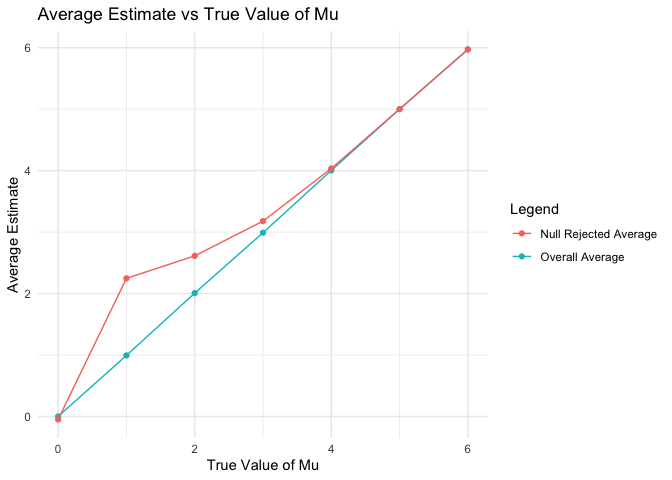
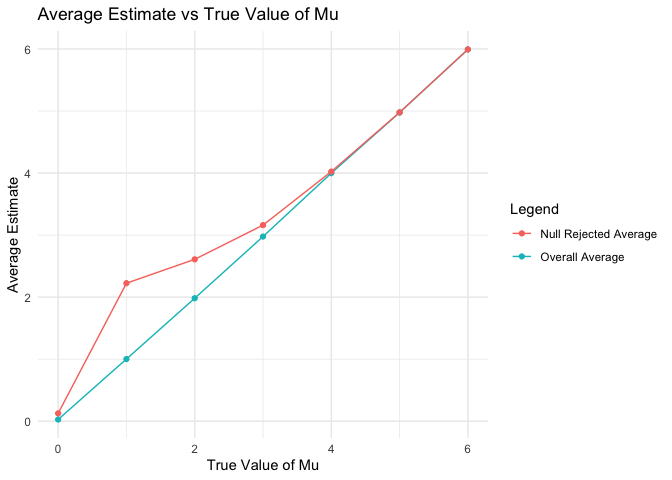
comments

diff --git a/p8105_hw5_xw2961.md b/p8105_hw5_xw2961.md
@@ -76,7 +76,17 @@ ggplot(power_results, aes(x = mu, y = power)) +
   theme_minimal()
 ```
 
-![](p8105_hw5_xw2961_files/figure-gfm/unnamed-chunk-2-1.png)<!-- -->
+![](p8105_hw5_xw2961_files/figure-gfm/unnamed-chunk-2-1.png)<!-- --> The
+plot shows a positive association between effect size ($\mu$) and
+statistical power, where power increases as the effect size grows. For
+small effect sizes, the power is low, indicating a lower likelihood of
+detecting a true effect. As the effect size increases, the power rises
+rapidly, reflecting a higher probability of correctly rejecting the null
+hypothesis. Beyond a certain threshold (e.g., $\mu \geq 5$), the power
+plateaus near 1, indicating near certainty in detecting a true effect.
+This demonstrates that larger effect sizes make it easier to distinguish
+between the null and alternative hypotheses, emphasizing the importance
+of sufficient effect sizes for well-powered studies.
 
 ``` r
 # Calculate averages
@@ -102,8 +112,19 @@ ggplot(average_results, aes(x = mu)) +
   theme_minimal()
 ```
 
-![](p8105_hw5_xw2961_files/figure-gfm/unnamed-chunk-3-1.png)<!-- --> \#
-Problem 3
+![](p8105_hw5_xw2961_files/figure-gfm/unnamed-chunk-3-1.png)<!-- --> The
+sample average of $\hat{\mu}$ from tests where the null hypothesis is
+rejected does not match the true value of ($\mu$), especially when
+($\mu$) is close to the null hypothesis value (0). This occurs because
+tests that reject the null are biased toward samples with larger
+deviations from 0, inflating the mean estimate. This selection bias is
+most evident when ($\mu$) is small since only extreme values of mu_hat
+produce significant results. As ($\mu$) increases, the test’s power
+improves, reducing the impact of selection bias, and the rejected-sample
+estimates converge more closely to the true ($\mu$). This pattern
+illustrates how bias diminishes with increasing effect size.
+
+# Problem 3
 
 ``` r
 # Loading the dataset
@@ -120,6 +141,17 @@ homicides_data <- read_csv(data_url)
     ## 
     ## ℹ Use `spec()` to retrieve the full column specification for this data.
     ## ℹ Specify the column types or set `show_col_types = FALSE` to quiet this message.
+
+The raw data originates from The Washington Post’s homicide dataset and
+provides comprehensive information on individual homicide cases from 50
+major U.S. cities. It encompasses a total of 52,179 observations
+distributed across 12 variables. Each row corresponds to a unique case
+and includes detailed attributes such as the date of the incident,
+victim demographics (e.g., name, age, race, sex, and ethnicity), the
+case’s disposition (e.g., “Closed by arrest” or “Open/No arrest”), and
+geographical details like city, state, latitude, and longitude. This
+dataset spans the past decade and provides a valuable resource for
+analyzing criminal homicides in these cities.
 
 ``` r
 # Create the city_state variable and summarize within the city
@@ -234,7 +266,7 @@ ggplot(plot_data, aes(x = estimate, y = city_state)) +
     ## Call `lifecycle::last_lifecycle_warnings()` to see where this warning was
     ## generated.
 
-![](p8105_hw5_xw2961_files/figure-gfm/unnamed-chunk-4-1.png)<!-- -->
+![](p8105_hw5_xw2961_files/figure-gfm/unnamed-chunk-5-1.png)<!-- -->
 
 ``` r
 plot_data
